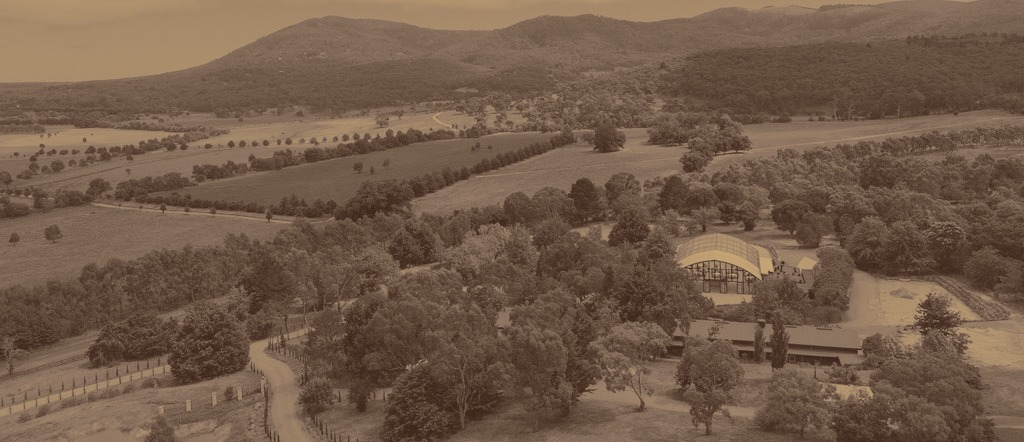
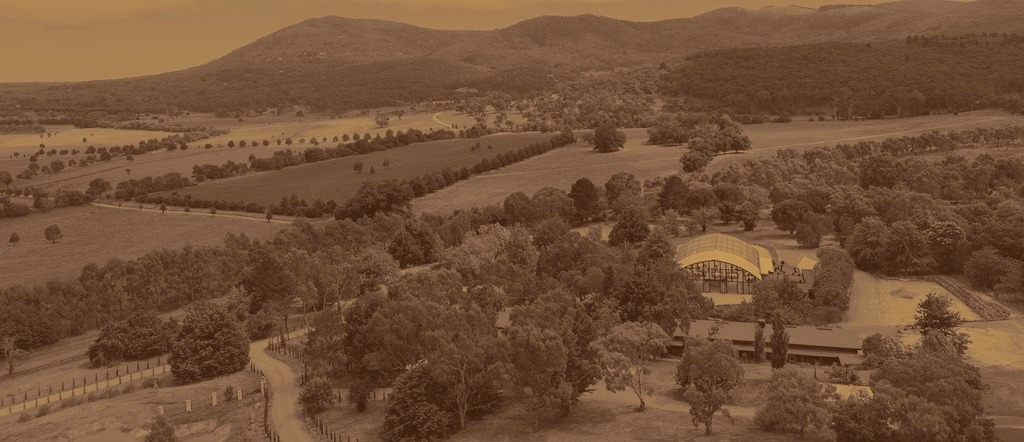
Fix Venue/RSVP mobile photo crops, add villa RSVP backdrop, live countdown
- Venue: desktop now shows the aerial photo at its native aspect ratio
  (uncropped) instead of a stretched sliver; mobile gets its own portrait
  photo instead of a heavy crop of the wide desktop one, plus a saturation
  boost on the desktop photo.
- RSVP: adds the villa/pool photo as a section backdrop (matching the
  Venue/Timetable treatment), with content shifted left on desktop so the
  arches and pool stay in view. Mobile uses a separate portrait crop of
  the same villa, contrast-boosted so the pool doesn't wash out.
- New "The countdown is on" section with a live countdown to the 4pm
  ceremony start, placed after RSVP.
- Footer simplified to just the monogram, centered, on mobile and desktop.

Claude-Session: https://claude.ai/code/session_018cVrHxvtqPohuHnX6PutRN

diff --git a/src/components/sections/rsvp-section.tsx b/src/components/sections/rsvp-section.tsx
@@ -45,6 +45,57 @@ function errorMessage(err: unknown): string {
   return "Something went wrong — please try again shortly.";
 }
 
+// The same warm duotone-wash-behind-text treatment used on the Venue and
+// Timetable sections, reused here as the backdrop for the last section on
+// the page. Desktop and mobile use separate photos — same reasoning as the
+// two Venue photos: this section is portrait and tall on mobile (and its
+// height swings a lot between RSVP stages, from the short search box up to
+// the full multi-person form), so the wide desktop shot forced into that
+// shape either turned into a thin, empty sliver (full-bleed cover) or
+// only ever showed a small crop (zoomed in). A second, portrait-oriented
+// photo of the same villa (supplied specifically for mobile) sidesteps
+// both problems: it's zoomed in and anchored toward the bottom, trading
+// the sky (and some of the lawn in the bottom-left, per the go-ahead to
+// crop it) for keeping the house and balustrades — the actual point of
+// the photo — in frame, the way the desktop crop keeps the arches and
+// pool in frame. Desktop keeps the original full-bleed wash: its
+// proportions are close enough to that photo's that cover crops
+// comparatively little, and it's already reading well.
+function RsvpBackground() {
+  return (
+    <>
+      <div
+        aria-hidden="true"
+        className="absolute inset-0 opacity-[0.32] pointer-events-none select-none sm:hidden"
+        style={{
+          backgroundImage: "url('/gallery/rsvp-villa-mobile-wash.jpg')",
+          backgroundSize: "auto 118%",
+          backgroundPosition: "78% 75%",
+          backgroundRepeat: "no-repeat",
+          WebkitMaskImage:
+            "linear-gradient(to bottom, transparent, black 10%, black 90%, transparent)",
+          maskImage:
+            "linear-gradient(to bottom, transparent, black 10%, black 90%, transparent)",
+        }}
+      />
+      <div
+        aria-hidden="true"
+        className="hidden sm:block absolute inset-0 opacity-[0.28] pointer-events-none select-none"
+        style={{
+          backgroundImage: "url('/gallery/rsvp-villa-wash.jpg')",
+          backgroundSize: "cover",
+          backgroundPosition: "60% 65%",
+          backgroundRepeat: "no-repeat",
+          WebkitMaskImage:
+            "linear-gradient(to bottom, transparent, black 10%, black 90%, transparent)",
+          maskImage:
+            "linear-gradient(to bottom, transparent, black 10%, black 90%, transparent)",
+        }}
+      />
+    </>
+  );
+}
+
 // A quiet, always-available way out if the search can't find someone or
 // anything on this page misbehaves — shown at the bottom of every stage
 // rather than only after an error, so it's never a dead end.
@@ -267,13 +318,16 @@ export function RsvpSection() {
       // and the section sits partway down the viewport instead of at the
       // header. A full viewport of height here guarantees enough scroll
       // room regardless of which stage is rendered.
-      <section id="rsvp" className="min-h-svh scroll-mt-24">
-        <PageHeader kicker="Thank you" title="RSVP Received" />
-        <div className="mx-auto max-w-xl px-6 pb-24 text-center">
-          <p className="leading-relaxed">
-            Thanks so much for letting us know — we can&rsquo;t wait to celebrate
-            with you on 11 March 2027.
-          </p>
+      <section id="rsvp" className="relative min-h-svh scroll-mt-24 overflow-hidden">
+        <RsvpBackground />
+        <div className="relative z-10">
+          <PageHeader kicker="Thank you" title="RSVP Received" />
+          <div className="mx-auto max-w-xl px-6 pb-24 text-center">
+            <p className="leading-relaxed">
+              Thanks so much for letting us know — we can&rsquo;t wait to celebrate
+              with you on 11 March 2027.
+            </p>
+          </div>
         </div>
       </section>
     );
@@ -283,9 +337,26 @@ export function RsvpSection() {
     // See the min-h-svh comment on the "done" branch above — same reasoning
     // applies here, and matters even more for this branch since it's the
     // one guests actually land on when clicking RSVP in the nav.
-    <section id="rsvp" className="min-h-svh scroll-mt-24">
-      <PageHeader kicker="By 24 January 2027" title="RSVP" />
-      <div className="mx-auto max-w-md px-6 pb-24">
+    <section id="rsvp" className="relative min-h-svh scroll-mt-24 overflow-hidden">
+      <RsvpBackground />
+      {/* mx-auto max-w-6xl gives the section the same outer width as the
+          rest of the site; the sm:max-w-md column inside it isn't itself
+          centered, so from tablet up the RSVP content hugs the left side
+          of the section instead of sitting dead-center over the image —
+          per request, so the pool/arches on the image's right stay clear
+          rather than being covered by the form. Mobile is unaffected
+          (sm:max-w-md doesn't apply below 640px), staying centered as
+          before since there's no room to spare for an off-center layout
+          on a phone-width screen. */}
+      {/* sm:pt-24 nudges the whole block down on tablet/desktop, on top of
+          PageHeader's own pt-20 — enough to no longer sit flush against the
+          nav, but nowhere near vertical-centering it in a min-h-svh
+          section (that would put the "Find your invitation" input roughly
+          in the middle of the screen). Mobile is unaffected. */}
+      <div className="relative z-10 mx-auto max-w-6xl sm:px-10 sm:pt-24">
+        <div className="sm:max-w-md">
+          <PageHeader kicker="By 24 January 2027" title="RSVP" />
+          <div className="mx-auto max-w-md px-6 pb-24 sm:mx-0 sm:px-0">
         {/* Stage 1: search */}
         {!confirmingParty && !previousReview && !party && (
           <>
@@ -529,6 +600,8 @@ export function RsvpSection() {
             <HelpLink />
           </form>
         )}
+          </div>
+        </div>
       </div>
     </section>
   );

diff --git a/src/components/sections/venue-section.tsx b/src/components/sections/venue-section.tsx
@@ -24,22 +24,66 @@ export function VenueSection() {
           — between the original 16% (too much, ate into the mountains
           near the top of the photo) and 4% (too sharp an edge). Opacity
           nudged up to 0.28, the ceiling before the burgundy body text
-          sitting on top starts losing contrast. */}
-        <Image
-          src="/gallery/venue-aerial-wash.jpg"
-          alt=""
+          sitting on top starts losing contrast.
+
+          The photo itself is a wide 1024x442 panorama (~2.3:1). On
+          desktop, where the section is much taller than that in
+          proportion, `fill`+object-cover was stretching the crop box to
+          the section's full height, which meant covering that height
+          while keeping the image's own proportions intact required
+          blowing it up and cropping away most of its width, leaving only
+          a narrow vertical sliver of the panorama on screen — so desktop
+          gets a wrapper sized to the photo's own aspect ratio instead
+          (full width, height following from that), vertically centered
+          in the section, rendering the whole wide shot uncropped. On
+          mobile, though, a portrait-oriented section next to a 2.3:1
+          panorama means an aspect-ratio-locked box would be a thin strip
+          — not "appropriate for the size of the phone" — so mobile goes
+          back to a full-bleed backdrop treatment, just carrying over the
+          same fade/opacity tuning as desktop.
+
+          Mobile got its own separate photo rather than reusing the
+          desktop one — a second aerial shot the user supplied specifically
+          for this, already close to portrait (3:4) rather than the
+          desktop photo's wide 2.3:1 panorama, so a plain `background-size:
+          cover` needs barely any crop to fill the section (mostly a
+          little off the sides, none off the top/bottom) and shows
+          mountain, fields and the estate all in one frame — no zoom trick
+          needed here the way the old shared photo needed one. Kept as a
+          separate file (venue-mobile-wash.jpg) rather than swapped in
+          place of the desktop one — desktop's crop/composition was
+          already approved and is explicitly not to be touched. */}
+        <div
           aria-hidden="true"
-          fill
-          priority={false}
-          sizes="100vw"
-          className="object-cover opacity-[0.28] pointer-events-none select-none"
+          className="absolute inset-0 sm:hidden opacity-[0.28] pointer-events-none"
           style={{
+            backgroundImage: "url('/gallery/venue-mobile-wash.jpg')",
+            backgroundSize: "cover",
+            backgroundPosition: "center",
+            backgroundRepeat: "no-repeat",
             WebkitMaskImage:
               "linear-gradient(to bottom, transparent, black 10%, black 90%, transparent)",
             maskImage:
               "linear-gradient(to bottom, transparent, black 10%, black 90%, transparent)",
           }}
         />
+        <div className="hidden sm:block absolute inset-x-0 top-1/2 -translate-y-1/2 aspect-[1024/442] w-full">
+          <Image
+            src="/gallery/venue-aerial-wash.jpg"
+            alt=""
+            aria-hidden="true"
+            fill
+            priority={false}
+            sizes="100vw"
+            className="object-cover opacity-[0.28] pointer-events-none select-none"
+            style={{
+              WebkitMaskImage:
+                "linear-gradient(to bottom, transparent, black 10%, black 90%, transparent)",
+              maskImage:
+                "linear-gradient(to bottom, transparent, black 10%, black 90%, transparent)",
+            }}
+          />
+        </div>
 
         <div className="relative z-10">
           <PageHeader title="Alora Macedon" />

diff --git a/src/components/sections/countdown-section.tsx b/src/components/sections/countdown-section.tsx
@@ -1,0 +1,72 @@
+"use client";
+
+import { useEffect, useState } from "react";
+import { PageHeader } from "@/components/page-header";
+
+// Ceremony start (see the Timetable section: "4:00pm"), in the venue's own
+// timezone — Victoria is still on daylight saving in mid-March (DST doesn't
+// end until the first Sunday of April), so this is a fixed +11:00 offset
+// rather than "local time", which would otherwise silently drift by an hour
+// depending on the visitor's own clock/timezone.
+const WEDDING_DATE = new Date("2027-03-11T16:00:00+11:00");
+
+type TimeLeft = { days: number; hours: number; minutes: number; seconds: number };
+
+function getTimeLeft(): TimeLeft {
+  const diff = Math.max(WEDDING_DATE.getTime() - Date.now(), 0);
+  return {
+    days: Math.floor(diff / (1000 * 60 * 60 * 24)),
+    hours: Math.floor((diff / (1000 * 60 * 60)) % 24),
+    minutes: Math.floor((diff / (1000 * 60)) % 60),
+    seconds: Math.floor((diff / 1000) % 60),
+  };
+}
+
+export function CountdownSection() {
+  // Starts null rather than computing getTimeLeft() immediately, so the
+  // server-rendered markup and the first client render match (both show the
+  // "--" placeholder) — computing a real value up front would render a
+  // number server-side that's already stale by the time it reaches the
+  // browser, causing a hydration mismatch. The real countdown takes over
+  // a moment after mount, once this effect runs.
+  const [timeLeft, setTimeLeft] = useState<TimeLeft | null>(null);
+
+  useEffect(() => {
+    const update = () => setTimeLeft(getTimeLeft());
+    // The first update is deferred to a microtask rather than called
+    // directly in the effect body — react-hooks/set-state-in-effect flags
+    // a synchronous setState call there (it can cascade renders). A
+    // microtask still lands before the browser's next paint, so there's no
+    // visible delay versus calling it inline.
+    queueMicrotask(update);
+    const id = setInterval(update, 1000);
+    return () => clearInterval(id);
+  }, []);
+
+  const units: { label: string; value: number | undefined }[] = [
+    { label: "Days", value: timeLeft?.days },
+    { label: "Hours", value: timeLeft?.hours },
+    { label: "Minutes", value: timeLeft?.minutes },
+    { label: "Seconds", value: timeLeft?.seconds },
+  ];
+
+  return (
+    <section id="countdown" className="scroll-mt-24">
+      <PageHeader kicker="Thursday 11 March 2027" title="The countdown is on" />
+      <div className="mx-auto max-w-2xl px-6 pb-24">
+        <div className="grid grid-cols-4 gap-3 sm:gap-8 text-center">
+          {units.map((u) => (
+            <div key={u.label}>
+              <p className="font-display text-3xl sm:text-6xl text-burgundy-600 tabular-nums">
+                {u.value !== undefined ? String(u.value).padStart(2, "0") : "--"}
+              </p>
+              <p className="mt-2 text-[10px] sm:text-xs uppercase tracking-[0.15em] sm:tracking-[0.2em] text-taupe-600">
+                {u.label}
+              </p>
+            </div>
+          ))}
+        </div>
+      </div>
+    </section>
+  );
+}

diff --git a/src/app/layout.tsx b/src/app/layout.tsx
@@ -1,7 +1,7 @@
 import type { Metadata, Viewport } from "next";
 import { Playfair_Display, Beau_Rivage, Cormorant_Garamond, Inter } from "next/font/google";
 import "./globals.css";
-import { SiteNav } from "@/components/nav";
+import { SiteNav, Monogram } from "@/components/nav";
 
 const playfair = Playfair_Display({
   variable: "--font-playfair",
@@ -75,8 +75,11 @@ export default function RootLayout({ children }: LayoutProps<"/">) {
         />
         <SiteNav />
         <div className="relative flex-1 flex flex-col">{children}</div>
-        <footer className="mt-auto bg-burgundy-900 text-cream-200/80 text-xs text-center py-8 px-6">
-          Nicole &amp; Alex &middot; 11 March 2027 &middot; Alora Macedon, New Gisborne
+        {/* The "Nicole & Alex · 11 March 2027 · Alora Macedon, New Gisborne"
+            line this used to carry has moved off — the footer is just the
+            monogram now, centered, same on mobile and desktop. */}
+        <footer className="mt-auto bg-burgundy-900 py-4 px-6 flex items-center justify-center">
+          <Monogram className="h-8 w-8 brightness-0 invert" />
         </footer>
       </body>
     </html>

diff --git a/src/app/page.tsx b/src/app/page.tsx
@@ -9,6 +9,7 @@ import { DressCodeSection } from "@/components/sections/dress-code-section";
 import { RegistrySection } from "@/components/sections/registry-section";
 import { FaqSection } from "@/components/sections/faq-section";
 import { RsvpSection } from "@/components/sections/rsvp-section";
+import { CountdownSection } from "@/components/sections/countdown-section";
 
 export default function Home() {
   return (
@@ -53,6 +54,7 @@ export default function Home() {
       <RegistrySection />
       <FaqSection />
       <RsvpSection />
+      <CountdownSection />
     </main>
   );
 }
